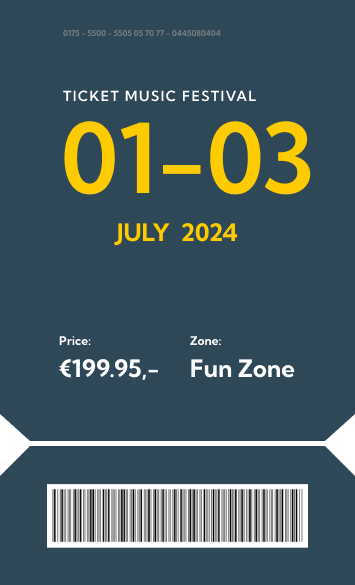
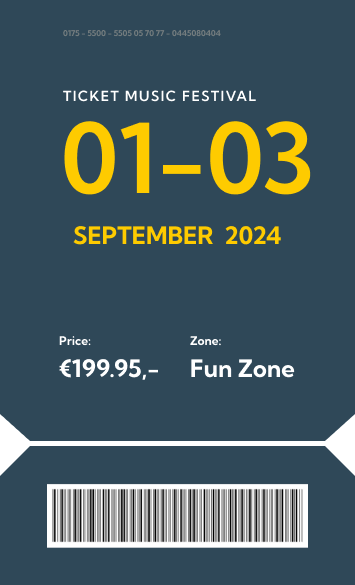
fix countdown date

Changed region(s): [[0.2169, 0.3692, 0.8056, 0.4308]]

diff --git a/src/components/shop/Shop.tsx b/src/components/shop/Shop.tsx
@@ -24,7 +24,7 @@ export default function Shop() {
 	const article = [
 		{
 			title: 'Ticket Festival: Fun Zone',
-			date: '01 - 03 July 2024',
+			date: '01 - 03 September 2024',
 		},
 	];
 
